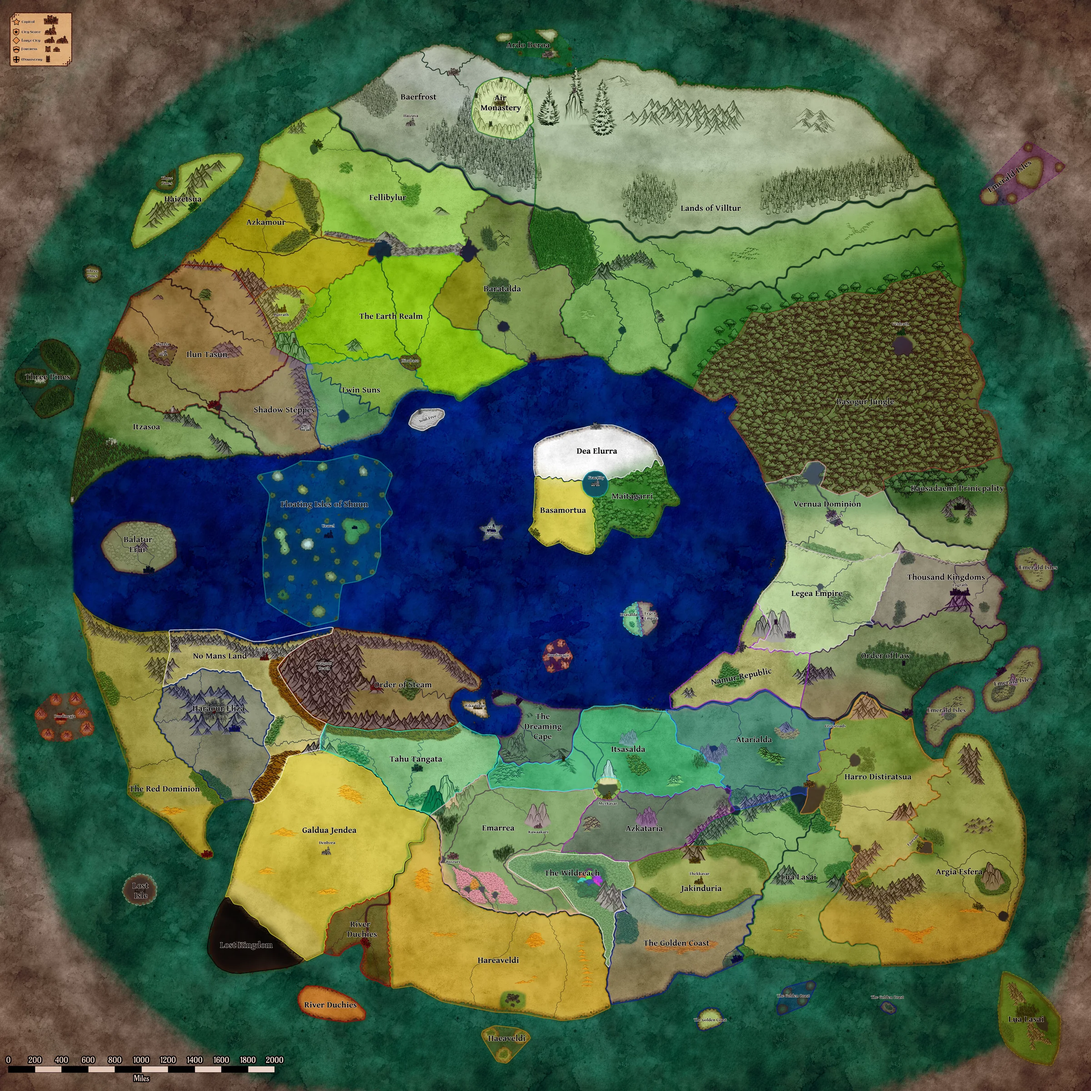
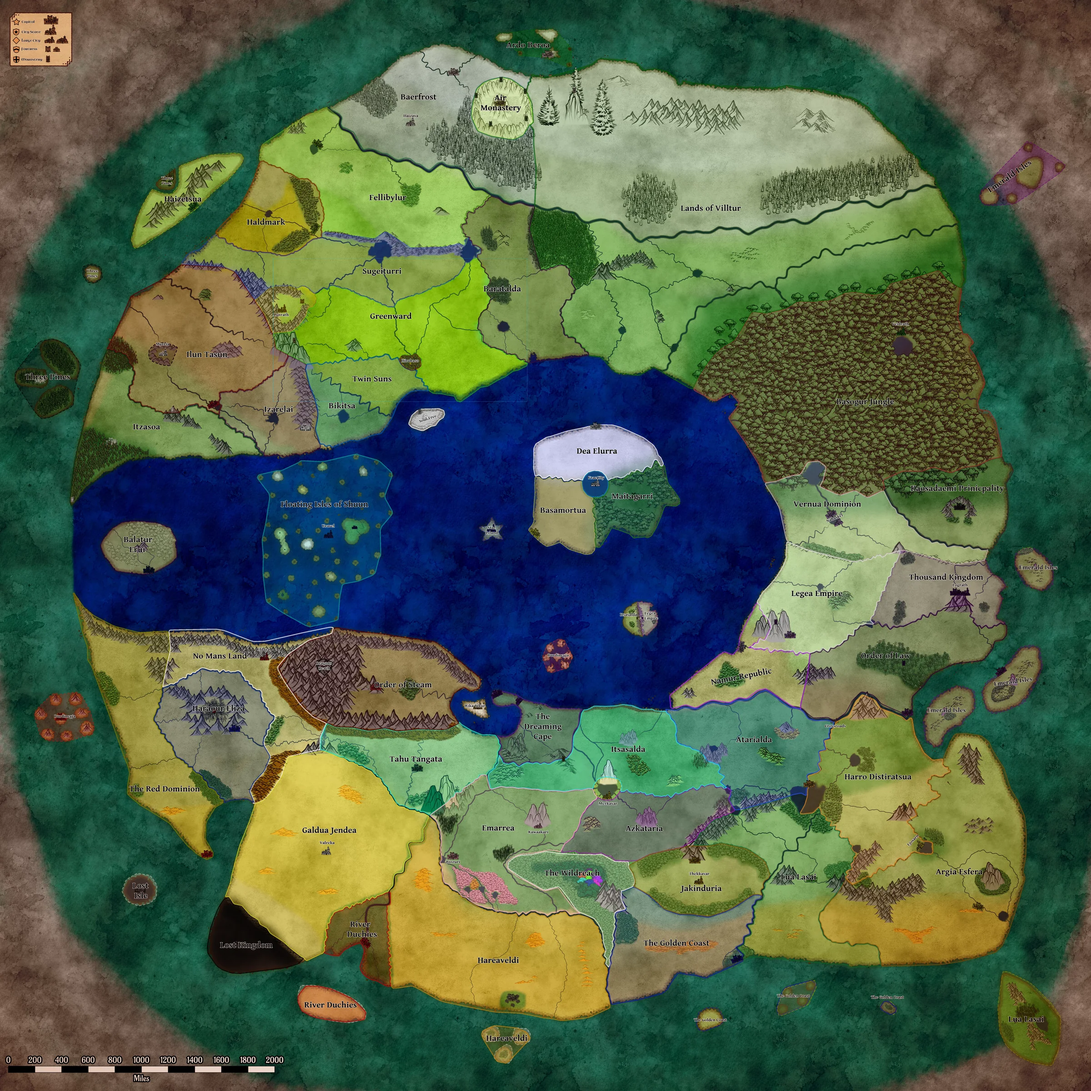
New map art: apply the map-TODO batch, regenerate display/thumb variants
The three views redrawn with Greenward, Izarelai, Haldmark, Sugeiturri,
Bikitsa, Valreka, Ljosarn, Thousand Kingdom, and Hareaveldi; Gotorlekua
gone. Display and thumb variants regenerated via resize.mjs. Map TODO
cleared down to the one remaining label fix spotted on verify (Harro
Distiratsua → Distiratsue).

diff --git a/docs/map-todo.md b/docs/map-todo.md
@@ -2,25 +2,8 @@
 
 Pending label work for the map art. The three views (terrain / kingdoms / domains) live at `published/setting/assets/maps/` as full-size originals with `display/` and `thumbs/` variants; labels are baked into the art, so canon renames accumulate **here** until the maps are next edited. Any future build that renames or adds a mapped region should add a line to this file. After replacing an original, re-run `resize.mjs` / `resize.sh` (ImageMagick) to refresh the variants.
 
-Verified against the kingdoms view on 2026-07-05.
+**2026-07-05 redraw:** the maps were redone and the whole first batch landed (Earth Realm → Greenward, Shadow Steppes → Izarelai, Denbora → Valreka, Ljorsan → Ljosarn, Thousand Kingdom singular, Hareaveldi typo, Azkamour → Haldmark, Sugeiturri and Bikitsa added, Gotorlekua confirmed gone). Verified against the new kingdoms view.
 
 ## Renames (canon settled, map label stale)
 
-- **The Earth Realm → Greenward** (Brauogi). Renamed at the 2026-06-29 build (the Furrowsworn breadbasket). Canon: `lore/geography/brauogi/greenward.md`.
-- **Shadow Steppes → Izarelai** (Myrkono). The outsider-tongue name was retired at the Izarelai build; the rename is swept across lore + HTML, the map is the last holdout. Canon: `lore/geography/myrkono.md`, *Izarelai, the Star Plain*.
-- **Denbora → Valreka** (city label inside Galdua Jendea, Lioaru). Tani's whale-borne god-city was renamed. Canon: `lore/glossary.md`.
-- **Ljorsan → Ljosarn** (city label, Egulon). Spelling fix; canon spelling **Ljosarn** (light-hearth etymology, `lore/glossary.md`).
-- **Thousand Kingdoms → Thousand Kingdom** (Zuzental). The map label carries a stray plural; canon is singular.
-- **Haeaveldi → Hareaveldi** (small island label off the southern coast). Typo of the Lioaru sub-region's name.
-- **Azkamour → Haldmark** (the north-western Brauogi march). The march was renamed at the Haldmark build (the Kholo Kept March, fully Brauogi now rather than a shared Vindul/Brauogi border); *Azkamour* survives only as its principal frontier trade-town, so the old name can stay on the map as a town label on the Hafra-and-border edge. Canon: `lore/geography/brauogi/haldmark.md`.
-
-## Additions (canon exists, not yet drawn/labelled)
-
-- **Sugeiturri** (Brauogi): the Dragonet source-country, built 2026-06-23. Northern Brauogi from the Hafra coast up the **Iturmen** source-mountains, carved from the Earth Realm's northern uplands plus the inland shoulder of the march now called Haldmark; the border between Greenward, Sugeiturri, and Haldmark needs drawing. Canon: `lore/geography/brauogi/sugeiturri.md`.
-- **Bikitsa** (Myrkono): the northern coastal sub-region paired with Twin Suns across the domain border. Add when the Bikitsa/Twin Suns build lands (the last unbuilt Myrkono sub-region; see `open-threads.md`).
-
-## Verify against current art
-
-- Whether **Gotorlekua** appears anywhere (retired 2026-06-13; its ground is the Eraztumen interior, Lurrath's territory). Not spotted on the kingdoms view; confirm on terrain/domains.
-
-*(Vernua Dominion, spotted north-east on the kingdoms view, checked out fine: it is the canon Nashavel sub-region housing Nahaskel; see `lore/geography/nashavel.md`.)*
+- **Harro Distiratsua → Harro Distiratsue** (Egulon). The kingdoms view carries a final *-a*; canon is **Distiratsue** everywhere (glossary etymology *harro* + *distiratsu* with the drift to *-e*; egulon.md, ancestries table, and the Egulon HTML all agree).
